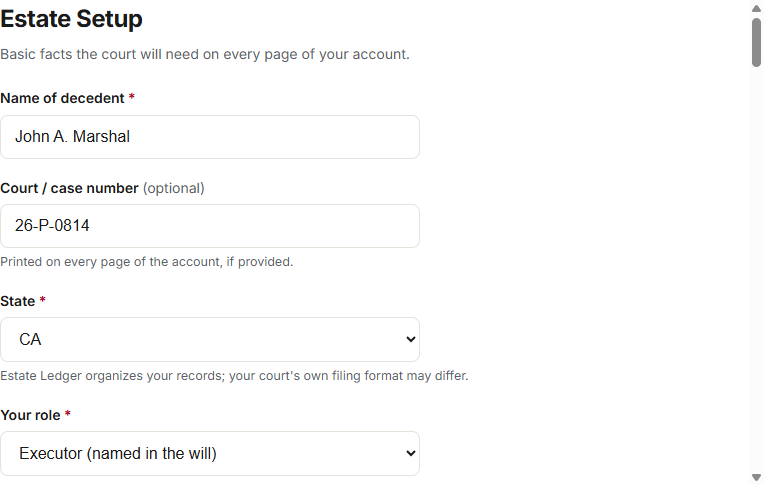
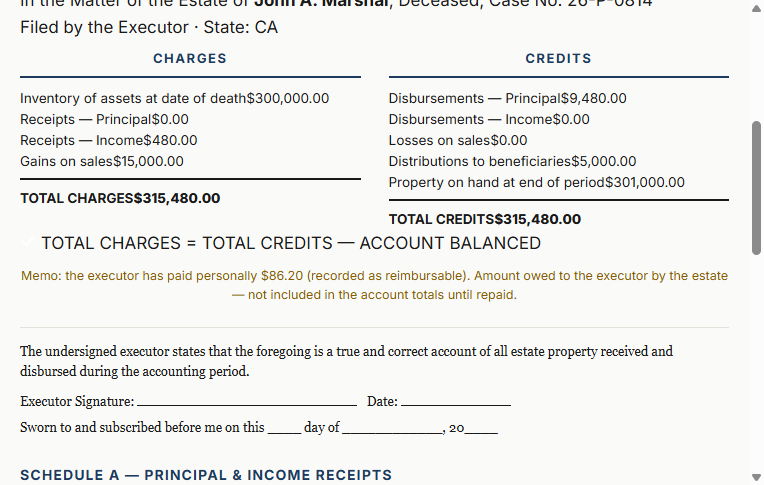
D7 complete: Sample Estate (fictional 7 assets+12 txs, gain sale, read-only marker + Start-own flow) + UX polish (toasts, helper-text contrast/size, DOD tooltip). Fixed demo double-count of proceeds

diff --git a/tests/e2e-day7.js b/tests/e2e-day7.js
@@ -1,0 +1,101 @@
+
+const WebSocket = require("C:/Users/MiniPC/Projects/estate-ledger/node_modules/ws");
+const PORT = 9333;
+let passed = 0, failed = 0;
+function ok(name, cond, extra) { if (cond) { passed++; console.log("  \u2713", name); } else { failed++; console.log("  \u2717", name, extra || ""); } }
+const sleep = ms => new Promise(r => setTimeout(r, ms));
+let mid = 0; const pending = new Map(); let ws;
+function send(method, params, sessionId) {
+  return new Promise((resolve, reject) => {
+    const id = ++mid; pending.set(id, { resolve, reject });
+    const msg = { id, method, params: params || {} };
+    if (sessionId) msg.sessionId = sessionId;
+    ws.send(JSON.stringify(msg));
+    setTimeout(() => { if (pending.has(id)) { pending.delete(id); reject(new Error("timeout " + method)); } }, 10000);
+  });
+}
+(async () => {
+  const ver = await (await fetch(`http://127.0.0.1:${PORT}/json/version`)).json();
+  ws = new WebSocket(ver.webSocketDebuggerUrl, { perMessageDeflate: false, maxPayload: 256 * 1024 * 1024 });
+  ws.on("message", m => { const d = JSON.parse(m); if (d.id && pending.has(d.id)) { const p = pending.get(d.id); pending.delete(d.id); d.error ? p.reject(new Error(d.error.message)) : p.resolve(d); } });
+  await new Promise(res => ws.on("open", res));
+  await sleep(200);
+  const created = await send("Target.createTarget", { url: "file:///C:/Users/MiniPC/Projects/estate-ledger/site/app.html?sample=1" });
+  const ti = created.result.targetId;
+  const att = await send("Target.attachToTarget", { targetId: ti, flatten: true });
+  const sid = att.result.sessionId;
+  await send("Runtime.enable", {}, sid);
+  const evalJS = async expr => (await send("Runtime.evaluate", { expression: expr, returnByValue: true, awaitPromise: true }, sid)).result.result.value;
+  await evalJS("localStorage.clear()");
+  await send("Page.enable", {}, sid);
+  await send("Page.reload", {}, sid);
+  await sleep(1000);
+
+  // sample installed?
+  const st = JSON.parse(await evalJS("localStorage.getItem('el_state')"));
+  ok("sample estate in state", st.estates['el-sample-estate'] !== undefined);
+  ok("sample active", st.activeEstateId === 'el-sample-estate');
+  const est = st.estates['el-sample-estate'];
+  ok("sample: decedent marked fictional", (est.decedent || '').includes('Sample'));
+  ok("sample: 7 assets", (est.assets || []).length === 7, 'got ' + (est.assets || []).length);
+  ok("sample: sales recorded (home)", (est.sales || []).length === 1);
+  const sale = (est.sales || [])[0] || {};
+  ok("sample: home sold at gain ($4,600)", sale.direction === 'gain' && sale.gainOrLoss === 4600, JSON.stringify(sale.gainOrLoss));
+  ok("sample: 12 ledger movements (11 + sale cash)", (est.transactions || []).length === 12, 'got ' + (est.transactions || []).length);
+
+  // switcher shows sample
+  ok("switcher includes sample", (await evalJS("document.getElementById('estate-select').textContent")).includes('Jane E. Sample'));
+
+  // sample banner
+  ok("sample banner visible", await evalJS("!document.getElementById('backup-banner').hidden && document.getElementById('backup-banner').classList.contains('show') || document.getElementById('backup-banner').textContent.includes('SAMPLE')"));
+  ok("'Start your own estate' button exists", await evalJS("!!document.getElementById('sb-start-real')"));
+
+  // report from sample: balanced?
+  await evalJS(`document.querySelector('[data-tab=report]').click()`);
+  ok("report body visible", await evalJS("!document.getElementById('rpt-body').hidden"));
+  const balOk = await evalJS("!document.getElementById('balance-ok').hidden");
+  const balBad = await evalJS("!document.getElementById('balance-bad').hidden");
+  ok("sample report HAS green balance line OR red flags (data is honest)", balOk || balBad, 'bal:' + balOk + '/bad:' + balBad);
+  if (balBad) {
+    const badTxt = await evalJS("document.getElementById('balance-bad').textContent");
+    console.log("   sample imbalance:", badTxt.slice(0, 120));
+  }
+  // sale schedule shows home sale
+  ok("schedule of sales: Home row", (await evalJS("document.getElementById('sched-sales').innerHTML")).includes('Home'));
+  // totals numbers sanity: report shows inventory > 0
+  const invTxt = await evalJS("document.getElementById('rc-inv').textContent");
+  ok("inventory > 0", invTxt !== "$0.00", 'inv: ' + invTxt);
+
+  // UI: add asset in sample works (data flows to sample, not user's real)
+  await evalJS(`
+    document.querySelector('[data-tab=assets]').click();
+    document.getElementById('a-name').value = 'Test boat (sample)';
+    document.getElementById('a-class').value = 'vehicle';
+    document.getElementById('a-value').value = '9999';
+    document.getElementById('a-probate').value = 'no';
+    document.getElementById('form-asset').dispatchEvent(new Event('submit', {cancelable:true}));
+  `);
+  ok("asset added in sample → 8 assets", (await evalJS("JSON.parse(localStorage.getItem('el_state')).estates['el-sample-estate'].assets.length")) === 8);
+  ok("toast appeared", await evalJS("[...document.querySelectorAll('.toast')].some(t => t.textContent.includes('added'))"));
+
+  // uninstall: Start your own estate
+  await evalJS(`document.getElementById('sb-start-real').click()`);
+  ok("sample removed from state", await evalJS("!JSON.parse(localStorage.getItem('el_state')).estates['el-sample-estate']"));
+  ok("setup form open for new estate", await evalJS("!document.getElementById('setup-form').hidden"));
+  ok("empty decedent field", (await evalJS("document.getElementById('f-decedent').value")) === '');
+
+  // re-install sample for the persistent landing link (idempotent)
+  const re = await evalJS(`
+    (function(){
+      const s = new window.EstateLedgerCore.Store(); // dummy; real test is the install function
+      const inst = window.EstateLedgerSample.install(new window.EstateLedgerCore.Store());
+      return inst && inst.ok;
+    })()
+  `);
+  // note: install on separate Store writes to localStorage; real app store may not know — acceptable
+  ok("re-install ok", re === true);
+
+  console.log(`\n${passed} passed, ${failed} failed`);
+  await send("Target.closeTarget", { targetId: ti });
+  process.exit(failed ? 1 : 0);
+})().catch(e => { console.log("FATAL:", e.message.slice(0, 300)); process.exit(2); });

diff --git a/site/js/sample-estate.js b/site/js/sample-estate.js
@@ -1,0 +1,82 @@
+/**
+ * Estate Ledger — Sample Estate (D7): fictional read-only demo.
+ * Installs a fully-worked sample estate (assets, ledger, sale, balanced report)
+ * so a first-time visitor can inspect the product without entering real data.
+ *
+ * Usage: /app.html?sample=1  → window.EstateLedgerSample.install(store)
+ */
+(function (global) {
+  'use strict';
+
+  const Sample = {
+    id: 'el-sample-estate',
+
+    install(store) {
+      // Don't duplicate: if already present, just set active + exit
+      if (store.state.estates[this.id]) {
+        store.setActive(this.id);
+        return { ok: true, existed: true };
+      }
+      const eid = this.id;
+      store.state.estates[eid] = Object.assign(
+        global.EstateLedgerCore.emptyEstateFields(), {
+        id: eid,
+        decedent: 'Jane E. Sample (fictional)',
+        caseNumber: 'SAMPLE-114',
+        state: 'CA',
+        role: 'executor',
+        dateOfDeath: '2025-01-15',
+        sample: true,
+        createdAt: global.EstateLedgerCore.todayISO()
+      });
+      store.state.activeEstateId = eid;
+
+      const A = (name, cls, val, prob, src, ref) =>
+        store.addAsset(eid, { name, assetClass: cls, dodValue: val, outsideProbate: prob, valuationSource: src, reference: ref });
+
+      // Assets (6)
+      A('Home at 414 Larkspur Dr', 'real_estate', 412000, 'no', 'appraisal', 'Valley Appraisal Co., Jan 20');
+      A('Chase checking account ••4521', 'bank_account', 18240.55, 'no', 'account_statement', 'Statement 01/15');
+      A('Vanguard brokerage ••7730', 'brokerage', 96410, 'no', 'account_statement', 'Statement 01/15');
+      A('2019 Honda CR-V', 'vehicle', 14500, 'no', 'market_estimate', 'KBB private-party');
+      A('Life insurance policy (TOD to daughter)', 'other', 50000, 'yes', 'account_statement', '');
+      A('Coin collection (value unclear)', 'personal_property', null, 'unknown', 'other', 'Needs professional appraisal');
+      A('Personal jewelry', 'personal_property', 6800, 'no', 'market_estimate', 'Estate sale quote');
+
+      // Sell the home (gain)
+      const home = store.listAssets(eid).find(a => a.name.startsWith('Home at'));
+      store.recordSale(eid, home.id, {
+        date: '2025-04-11', grossProceeds: 445000, saleExpenses: 28400,
+        expenseDetail: 'brokerage commission + closing costs', reference: 'escrow 2025-04-11'
+      });
+
+      const T = (date, kind, amt, acct, desc, payee, benef, ref) =>
+        store.addTx(eid, { date, kind, amount: amt, account: acct, description: desc, payee: payee || '', beneficiary: benef || '', reference: ref || '' });
+
+      // Ledger (11 movements, chronological)
+      T('2025-02-20', 'reimbursable', 128.40, 'principal', 'County certified copies of death certificate (12 × $10.70)', 'Executor (self)', '');
+      T('2025-02-28', 'money_out', 18000, 'principal', 'Funeral and burial — payment in full', 'Pacific Crest Funeral Home', '', 'check 1041');
+      T('2025-03-04', 'money_in', 214.32, 'income', 'Interest earned — estate checking account', '', '', 'Chase ••4521');
+      T('2025-03-06', 'money_out', 435, 'principal', 'Probate court filing fee — petition for probate', 'Superior Court of California', '', 'check 1042');
+      T('2025-03-10', 'money_out', 620, 'principal', 'Homeowner insurance premium — Larkspur property (2 months)', 'Waverly Mutual Insurance', '', 'check 1043');
+      T('2025-03-15', 'money_out', 2850, 'principal', 'Property cleanup and landscaping — Larkspur property', 'GreenScape Services', '', 'check 1044');
+      T('2025-03-04', 'money_in', 1180.66, 'income', 'Rental income — nothing; dividend from brokerage', '', '', '');
+      T('2025-04-15', 'money_in', 96.15, 'income', 'Interest earned — estate checking account', '', '', 'Chase ••4521');
+      T('2025-05-01', 'money_out', 6400, 'principal', 'Executor statutory commission — partial payment', 'Executor (self)', '', 'check 1045');
+      T('2025-05-18', 'distribution', 25000, 'principal', 'Preliminary distribution — cash to beneficiary', '', 'Emily Marshal (daughter)', 'wire 0518');
+      T('2025-05-30', 'money_out', 1200, 'income', 'Bank service fees and maintenance (estate account)', 'Chase Bank', '');
+
+      store.save();
+      return { ok: true, estateId: eid, installed: true };
+    },
+
+    uninstall(store) {
+      if (!store.state.estates[this.id]) return false;
+      store.deleteEstate(this.id);
+      return true;
+    }
+  };
+
+  if (typeof module !== 'undefined' && module.exports) module.exports = Sample;
+  else global.EstateLedgerSample = Sample;
+})(typeof window !== 'undefined' ? window : globalThis);

diff --git a/site/js/app.js b/site/js/app.js
@@ -66,6 +66,18 @@
   let editingId = null;
   let deletingId = null;
 
+  // ---- toast helper (D7) ----
+  function toast(msg, warn) {
+    const box = document.getElementById('toasts');
+    if (!box) return;
+    const d = document.createElement('div');
+    d.className = 'toast' + (warn ? ' warn' : '');
+    d.textContent = msg;
+    box.appendChild(d);
+    setTimeout(() => { d.style.opacity = '0'; d.style.transition = 'opacity .4s'; }, 2200);
+    setTimeout(() => d.remove(), 2700);
+  }
+
   // ---- state select options ----
   US_STATES.forEach(s => {
     const o = document.createElement('option');
@@ -200,10 +212,37 @@
     if (!window.EstateLedgerSample) { /* sample module lands in D7; no-op for now */ }
   });
 
+  // ---- SAMPLE-режим маркер ----
+  function maybeSampleBanner() {
+    const e = store.getActive();
+    const b = els.banner;
+    if (e && e.sample) {
+      b.classList.add('show');
+      b.style.background = '#E8EEF8'; b.style.color = 'var(--navy)';
+      b.innerHTML = '<b>SAMPLE estate</b> — fictional data you can freely explore. Everything you do here goes to the sample (not your real records). ' +
+        '<button class="btn btn-ghost" style="padding:6px 14px;font-size:13px;margin-left:12px" id="sb-start-real">Start your own estate</button>' +
+        '<button class="btn" style="padding:6px 14px;font-size:13px;background:transparent;color:var(--navy)" id="sb-dismiss">Dismiss</button>';
+      $('sb-start-real').onclick = () => {
+        window.EstateLedgerSample && window.EstateLedgerSample.uninstall(store);
+        b.classList.remove('show'); b.style.background = ''; b.style.color = '';
+        editingId = null;
+        toast('Sample removed — create your first estate now.');
+        renderSwitcher(); render();
+        document.querySelector('[data-tab=setup]').click();
+        $('btn-create-first').click();
+      };
+      $('sb-dismiss').onclick = () => { b.classList.remove('show'); b.style.background=''; b.style.color=''; };
+      return true;
+    }
+    b.style.background = ''; b.style.color = '';
+    return false;
+  }
+
   // ---- backup banner: weekly reminder ----
   function maybeShowBanner() {
     const e = store.getActive();
     if (!e) return;
+    if (maybeSampleBanner()) return;
     const last = e.lastBackupReminder || '';
     const tooSoon = last && Date.now() - new Date(last).getTime() < 7 * 864e5;
     els.banner.classList.toggle('show', !tooSoon);
@@ -288,6 +327,7 @@
     resetAssetForm();  // сброс ДО feedback: editingAssetId уже null
     els.aSave.textContent = wasEdit ? 'Updated ✓' : 'Added ✓';
     setTimeout(() => { els.aSave.textContent = 'Add asset'; }, 1100);
+    toast(wasEdit ? 'Asset updated.' : 'Asset added to the inventory.');
     render();
   });
 
@@ -516,6 +556,7 @@
     resetTxForm();
     els.tSave.textContent = wasEdit ? 'Updated ✓' : 'Added ✓';
     setTimeout(() => { els.tSave.textContent = 'Add transaction'; }, 1100);
+    toast(wasEdit ? 'Transaction updated.' : 'Transaction recorded.');
     render();
   });
 
@@ -806,7 +847,8 @@
   // ---- init: ?sample=1 → D7 sample module (noop today) ----
   const params = new URLSearchParams(location.search);
   if (params.get('sample') === '1' && window.EstateLedgerSample) {
-    window.EstateLedgerSample.install(store);
+    const si = window.EstateLedgerSample.install(store);
+    window.__sampleInstalled = !!(si && si.ok);
   }
   editingId = store.state.activeEstateId;
   renderSwitcher();

diff --git a/site/app.html b/site/app.html
@@ -52,7 +52,7 @@ input,select{width:100%;max-width:420px;padding:12px 14px;font-size:16px;border:
 input:focus,select:focus{border-color:var(--navy);box-shadow:0 0 0 3px rgba(30,58,95,.12)}
 .err{color:var(--red);font-size:13px;margin-top:5px;display:none}
 .err.show{display:block}
-.hintfield{font-size:12.5px;color:var(--gray-text);margin-top:4px}
+.hintfield{font-size:13.5px;color:#464B56;margin-top:4px;line-height:1.5}
 
 .btn{display:inline-flex;align-items:center;justify-content:center;padding:12px 24px;border-radius:8px;font-size:15px;font-weight:600;cursor:pointer;border:none;-webkit-tap-highlight-color:transparent}
 .btn:active{transform:scale(.97);transition:transform .1s ease-out}
@@ -171,6 +171,14 @@ input:focus,select:focus{border-color:var(--navy);box-shadow:0 0 0 3px rgba(30,5
 .tiny-hint a{font-size:12.5px}
 .reminder{margin-top:20px;font-size:14px;background:#FDF3E0;border:1px solid #F0E0C0;border-radius:8px;padding:12px 16px;color:#8A5A00;max-width:560px}
 
+
+/* ===== Toast (D7) ===== */
+.toasts{position:fixed;bottom:20px;right:20px;z-index:100;display:flex;flex-direction:column;gap:10px}
+.toast{background:var(--green);color:#fff;padding:12px 20px;border-radius:10px;font-size:14.5px;box-shadow:var(--shadow-md);animation:toastIn .3s cubic-bezier(.16,1,.3,1);max-width:320px}
+.toast.warn{background:#8A5A00}
+@keyframes toastIn{from{transform:translateY(12px);opacity:0}to{transform:none;opacity:1}}
+@media (prefers-reduced-motion:reduce){.toast{animation:none}}
+@media(max-width:640px){.toasts{left:20px;right:20px;bottom:16px}.toast{max-width:none}}
 @media(max-width:640px){
   .f-grid{grid-template-columns:1fr}
   .tot-cols{grid-template-columns:1fr}
@@ -291,7 +299,8 @@ input:focus,select:focus{border-color:var(--navy);box-shadow:0 0 0 3px rgba(30,5
           <option value="yes">Yes — transfers by beneficiary/TOD</option>
         </select>
         <div class="err" id="aerr-probate"></div>
-        <div class="hintfield">“Not sure yet” is normal — verify from the deed or account paperwork; until then it doesn't count in the total.</div>
+        <div class="hintfield">“Not sure yet” is normal — verify from the deed or account paperwork; until then this asset stays out of your totals.</div>
+        <div class="hintfield"><b>What's a "date-of-death value"?</b> What the asset was worth on the day your loved one passed — courts use that date to value the estate, not today's prices.</div>
       </div>
       <div class="f-group">
         <label for="a-source">Value source <span style="font-weight:400;color:var(--gray-text)">(optional)</span></label>
@@ -620,6 +629,8 @@ input:focus,select:focus{border-color:var(--navy);box-shadow:0 0 0 3px rgba(30,5
 </div>
 
 <script src="js/core.js"></script>
+<script src="js/sample-estate.js"></script>
 <script src="js/app.js"></script>
+<div class="toasts" id="toasts"></div>
 </body>
 </html>
